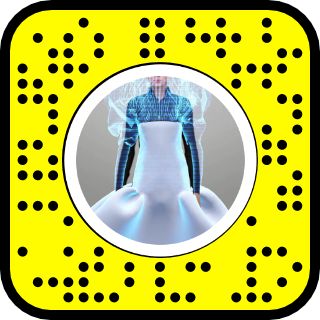
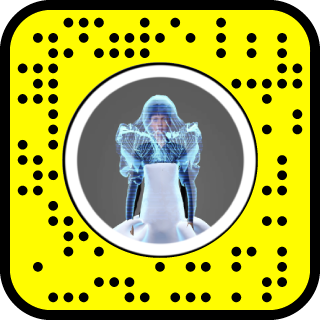
Update portfolio popup close button and latest site changes

diff --git a/index.html b/index.html
@@ -317,8 +317,6 @@
                                     </div>
                                 </div>
                             </div>
-                            <button class="project-nav project-prev" aria-label="Previous slide">&lt;</button>
-                            <button class="project-nav project-next" aria-label="Next slide">&gt;</button>
                         </div>
                         <button class="slide-click-surface" aria-label="Show project info"></button>
                         <button class="project-info">?</button>
@@ -330,66 +328,56 @@
                 </div>
                 <div class="portfolio-item" data-index="1" data-title="SpooktaculAR" data-description="What if the real horror of your Halloween costume wasn’t the oil-based plastics, the one-time wear, or the landfill afterlife?||If you also love dressing up, fear not. You can wear these terrifying AR costumes." data-category="digital-fashion" data-year="2023">
                     <div class="portfolio-image">
-                        <div class="project-slider">
-                            <div class="project-track">
-                                <div class="project-slide">
                                     <div class="mosaic-grid">
                                         <div class="mosaic-item">
                                             <iframe class="mosaic-vimeo" src="https://player.vimeo.com/video/1163044984?background=1&autoplay=1&loop=1&muted=1&autopause=0" title="Hologram Ghost" allow="autoplay; fullscreen; picture-in-picture" allowfullscreen></iframe>
-                                            <button class="mosaic-label" type="button" data-snapcode="images/portfolio-item-2-spooktaculAR/1.Snapcode_Ghost.png" data-snapcode-video="https://player.vimeo.com/video/1168898609?autoplay=1&muted=0&loop=1&autopause=0&playsinline=1&controls=0&title=0&byline=0&portrait=0&api=1&player_id=snapcode-video-player" aria-label="Show Hologram Ghost snapcode">👻 Hologram Ghost</button>
+                                            <button class="mosaic-label" type="button" data-snapcode="images/portfolio-item-2-spooktaculAR/1.Snapcode_Ghost.png" data-snapcode-video="https://player.vimeo.com/video/1168898609?autoplay=1&muted=1&loop=1&autopause=0&playsinline=1&controls=0&title=0&byline=0&portrait=0" data-snapcode-link="https://www.snapchat.com/lens/61f0f3b9f749400d91190cd2009f596d?sender_web_id=ddfc273e-e777-42e2-94e6-6960d54d06f7&device_type=desktop&is_copy_url=true" aria-label="Show Hologram Ghost snapcode">👻 Hologram Ghost</button>
                                         </div>
                                         <div class="mosaic-item">
                                             <iframe class="mosaic-vimeo" src="https://player.vimeo.com/video/1163045003?background=1&autoplay=1&loop=1&muted=1&autopause=0" title="Bloody Octopus" allow="autoplay; fullscreen; picture-in-picture" allowfullscreen></iframe>
-                                            <button class="mosaic-label" type="button" data-snapcode="images/portfolio-item-2-spooktaculAR/2.Snapcode_Octopus.png" aria-label="Show Bloody Octopus snapcode">🐙 Bloody Octopus</button>
+                                            <button class="mosaic-label" type="button" data-snapcode="images/portfolio-item-2-spooktaculAR/2.Snapcode_Octopus.png" data-snapcode-video="https://vimeo.com/1168898199?fl=tl&fe=ec" data-snapcode-link="https://www.snapchat.com/lens/d6dce749bb57452b94f3ca3994fd9166?sender_web_id=0937cddb-0b23-40b8-940f-b2a4a1a10cf3&device_type=desktop&is_copy_url=true" aria-label="Show Bloody Octopus snapcode">🐙 Bloody Octopus</button>
                                         </div>
                                         <div class="mosaic-item">
                                             <iframe class="mosaic-vimeo" src="https://player.vimeo.com/video/1163045019?background=1&autoplay=1&loop=1&muted=1&autopause=0" title="Creepy Clown" allow="autoplay; fullscreen; picture-in-picture" allowfullscreen></iframe>
-                                            <button class="mosaic-label" type="button" data-snapcode="images/portfolio-item-2-spooktaculAR/3.Snapcode_Clown.png" aria-label="Show Creepy Clown snapcode">🤡 Creepy Clown</button>
+                                            <button class="mosaic-label" type="button" data-snapcode="images/portfolio-item-2-spooktaculAR/3.Snapcode_Clown.png" data-snapcode-video="https://vimeo.com/1168898547?fl=tl&fe=ec" data-snapcode-link="https://www.snapchat.com/lens/6d1e62d8a54d4682af7eba7434c4b771?sender_web_id=e81c6d06-9c5a-48cb-8878-91d7fecf0ac7&device_type=desktop&is_copy_url=true" aria-label="Show Creepy Clown snapcode">🤡 Creepy Clown</button>
                                         </div>
                                         <div class="mosaic-item">
                                             <iframe class="mosaic-vimeo" src="https://player.vimeo.com/video/1163045041?background=1&autoplay=1&loop=1&muted=1&autopause=0" title="Wicked Witch" allow="autoplay; fullscreen; picture-in-picture" allowfullscreen></iframe>
-                                            <button class="mosaic-label" type="button" data-snapcode="images/portfolio-item-2-spooktaculAR/4.Snapcode_Witch.png" aria-label="Show Wicked Witch snapcode">🧙♀ Wicked Witch</button>
+                                            <button class="mosaic-label" type="button" data-snapcode="images/portfolio-item-2-spooktaculAR/4.Snapcode_Witch.png" data-snapcode-video="https://vimeo.com/1168898760?fl=tl&fe=ec" data-snapcode-link="https://www.snapchat.com/lens/09b98f4a344a4b01b72900109be1ff2e?sender_web_id=766f2926-ee55-441e-8c1b-f7c5cc7fd7c0&device_type=desktop&is_copy_url=true" aria-label="Show Wicked Witch snapcode">🧙♀ Wicked Witch</button>
                                         </div>
                                         <div class="mosaic-item">
                                             <iframe class="mosaic-vimeo" src="https://player.vimeo.com/video/1163045056?background=1&autoplay=1&loop=1&muted=1&autopause=0" title="Casual Wednesday" allow="autoplay; fullscreen; picture-in-picture" allowfullscreen></iframe>
-                                            <button class="mosaic-label" type="button" data-snapcode="images/portfolio-item-2-spooktaculAR/5.Snapcode_Wednesday.png" aria-label="Show Casual Wednesday snapcode">🤵🏻♀ Casual Wednesday</button>
+                                            <button class="mosaic-label" type="button" data-snapcode="images/portfolio-item-2-spooktaculAR/5.Snapcode_Wednesday.png" data-snapcode-video="https://vimeo.com/1168898266?fl=tl&fe=ec" data-snapcode-link="https://www.snapchat.com/lens/c5279c8f99f54f24bb12d35d58a69850?sender_web_id=357a39e5-242b-4340-b0a0-56c08f4ac55b&device_type=desktop&is_copy_url=true" aria-label="Show Casual Wednesday snapcode">🤵🏻♀ Casual Wednesday</button>
                                         </div>
                                         <div class="mosaic-item">
                                             <iframe class="mosaic-vimeo" src="https://player.vimeo.com/video/1163045068?background=1&autoplay=1&loop=1&muted=1&autopause=0" title="Evil Devil" allow="autoplay; fullscreen; picture-in-picture" allowfullscreen></iframe>
-                                            <button class="mosaic-label" type="button" data-snapcode="images/portfolio-item-2-spooktaculAR/6.Snapcode_Devil.png" aria-label="Show Evil Devil snapcode">😈 Evil Devil</button>
+                                            <button class="mosaic-label" type="button" data-snapcode="images/portfolio-item-2-spooktaculAR/6.Snapcode_Devil.png" data-snapcode-video="https://vimeo.com/1168915964?share=copy&fl=sv&fe=ci" data-snapcode-link="https://www.snapchat.com/lens/1722691415aa4596ad7b714f22383a21?sender_web_id=ad953afd-a5cd-4f28-9601-afb735f3585d&device_type=desktop&is_copy_url=true" aria-label="Show Evil Devil snapcode">😈 Evil Devil</button>
                                         </div>
                                         <div class="mosaic-item">
                                             <iframe class="mosaic-vimeo" src="https://player.vimeo.com/video/1163045087?background=1&autoplay=1&loop=1&muted=1&autopause=0" title="Galactic Alien" allow="autoplay; fullscreen; picture-in-picture" allowfullscreen></iframe>
-                                            <button class="mosaic-label" type="button" data-snapcode="images/portfolio-item-2-spooktaculAR/7.Snapcode_Alien.png" aria-label="Show Galactic Alien snapcode">👽 Galactic Alien</button>
+                                            <button class="mosaic-label" type="button" data-snapcode="images/portfolio-item-2-spooktaculAR/7.Snapcode_Alien.png" data-snapcode-video="https://vimeo.com/1168898413?fl=tl&fe=ec" data-snapcode-link="https://www.snapchat.com/lens/48113f790bee407786c97c14dfbd03ff?sender_web_id=6c7f4869-318e-49f6-a20a-ea68f0cce2a7&device_type=desktop&is_copy_url=true" aria-label="Show Galactic Alien snapcode">👽 Galactic Alien</button>
                                         </div>
                                         <div class="mosaic-item">
                                             <iframe class="mosaic-vimeo" src="https://player.vimeo.com/video/1163045100?background=1&autoplay=1&loop=1&muted=1&autopause=0" title="Rotten Pumpkin" allow="autoplay; fullscreen; picture-in-picture" allowfullscreen></iframe>
-                                            <button class="mosaic-label" type="button" data-snapcode="images/portfolio-item-2-spooktaculAR/8.Snapcode_Pumpkin.png" aria-label="Show Rotten Pumpkin snapcode">🎃 Rotten Pumpkin</button>
+                                            <button class="mosaic-label" type="button" data-snapcode="images/portfolio-item-2-spooktaculAR/8.Snapcode_Pumpkin.png" data-snapcode-video="https://vimeo.com/1168898681?fl=tl&fe=ec" data-snapcode-link="https://www.snapchat.com/lens/d90cd80e3acb4abaa13b3610e4732029?sender_web_id=1b5a4090-0f07-4563-902d-97e94bf311db&device_type=desktop&is_copy_url=true" aria-label="Show Rotten Pumpkin snapcode">🎃 Rotten Pumpkin</button>
                                         </div>
                                         <div class="mosaic-item">
                                             <iframe class="mosaic-vimeo" src="https://player.vimeo.com/video/1163045108?background=1&autoplay=1&loop=1&muted=1&autopause=0" title="Skinny Skeleton" allow="autoplay; fullscreen; picture-in-picture" allowfullscreen></iframe>
-                                            <button class="mosaic-label" type="button" data-snapcode="images/portfolio-item-2-spooktaculAR/9.Snapcode_Skeleton.png" aria-label="Show Skinny Skeleton snapcode">💀 Skinny Skeleton</button>
+                                            <button class="mosaic-label" type="button" data-snapcode="images/portfolio-item-2-spooktaculAR/9.Snapcode_Skeleton.png" data-snapcode-video="https://vimeo.com/1168916714?share=copy&fl=sv&fe=ci" data-snapcode-link="https://www.snapchat.com/lens/16711b551c484e9dabb9f397500dfa31?sender_web_id=af0825df-1b9e-4ed4-8205-51594ec5e860&device_type=desktop&is_copy_url=true" aria-label="Show Skinny Skeleton snapcode">💀 Skinny Skeleton</button>
                                         </div>
                                         <div class="mosaic-item">
                                             <iframe class="mosaic-vimeo" src="https://player.vimeo.com/video/1163045136?background=1&autoplay=1&loop=1&muted=1&autopause=0" title="Sloppy Zombie" allow="autoplay; fullscreen; picture-in-picture" allowfullscreen></iframe>
-                                            <button class="mosaic-label" type="button" data-snapcode="images/portfolio-item-2-spooktaculAR/10.Snapcode_Zombie.png" aria-label="Show Sloppy Zombie snapcode">🧟 Sloppy Zombie</button>
+                                            <button class="mosaic-label" type="button" data-snapcode="images/portfolio-item-2-spooktaculAR/10.Snapcode_Zombie.png" data-snapcode-video="https://vimeo.com/1168916999?share=copy&fl=sv&fe=ci" data-snapcode-link="https://www.snapchat.com/lens/02e6dcceb2a943f29b971f0154d2f716?sender_web_id=744e5ba6-75da-4106-a609-a72dabcf26c9&device_type=desktop&is_copy_url=true" aria-label="Show Sloppy Zombie snapcode">🧟 Sloppy Zombie</button>
                                         </div>
                                         <div class="mosaic-item">
                                             <iframe class="mosaic-vimeo" src="https://player.vimeo.com/video/1163045151?background=1&autoplay=1&loop=1&muted=1&autopause=0" title="Sunny Mummy" allow="autoplay; fullscreen; picture-in-picture" allowfullscreen></iframe>
-                                            <button class="mosaic-label" type="button" data-snapcode="images/portfolio-item-2-spooktaculAR/11.Snapcode_Mummy.png" aria-label="Show Sunny Mummy snapcode">👳 Sunny Mummy</button>
+                                            <button class="mosaic-label" type="button" data-snapcode="images/portfolio-item-2-spooktaculAR/11.Snapcode_Mummy.png" data-snapcode-video="https://vimeo.com/1168917308?share=copy&fl=sv&fe=ci" data-snapcode-link="https://www.snapchat.com/lens/b5bf36ae3e8a41bd868d466e42cd435e?sender_web_id=072f2beb-c5f4-4105-883c-32590528577f&device_type=desktop&is_copy_url=true" aria-label="Show Sunny Mummy snapcode">👳 Sunny Mummy</button>
                                         </div>
                                         <div class="mosaic-item">
                                             <iframe class="mosaic-vimeo" src="https://player.vimeo.com/video/1163045166?background=1&autoplay=1&loop=1&muted=1&autopause=0" title="Vintage Vampire" allow="autoplay; fullscreen; picture-in-picture" allowfullscreen></iframe>
-                                            <button class="mosaic-label" type="button" data-snapcode="images/portfolio-item-2-spooktaculAR/12.Snapcode_Vampire.png" aria-label="Show Vintage Vampire snapcode">🧛♀ Vintage Vampire</button>
+                                            <button class="mosaic-label" type="button" data-snapcode="images/portfolio-item-2-spooktaculAR/12.Snapcode_Vampire.png" data-snapcode-video="https://vimeo.com/1168917373?share=copy&fl=sv&fe=ci" data-snapcode-link="https://www.snapchat.com/lens/379cf40b95564a519fc1661128cabb4c?sender_web_id=299cf555-4afd-405d-b84c-e1abc3304fde&device_type=desktop&is_copy_url=true" aria-label="Show Vintage Vampire snapcode">🧛♀ Vintage Vampire</button>
                                         </div>
                                     </div>
-                                </div>
-                                <div class="project-slide"><img src="https://via.placeholder.com/1600x900?text=Circular+Fashion+02" alt="Circular Narratives slide 2"></div>
-                                <div class="project-slide"><img src="https://via.placeholder.com/1600x900?text=Circular+Fashion+03" alt="Circular Narratives slide 3"></div>
-                            </div>
-                            <button class="project-nav project-prev" aria-label="Previous slide">&lt;</button>
-                            <button class="project-nav project-next" aria-label="Next slide">&gt;</button>
-                        </div>
                         <button class="slide-click-surface" aria-label="Show project info"></button>
                         <button class="project-info">?</button>
                     </div>
@@ -676,12 +664,11 @@
         <div class="snapcode-popup-panel" role="dialog" aria-modal="true" aria-label="Snapcode image">
             <button class="close-popup snapcode-close" id="closeSnapcodePopup" aria-label="Close snapcode">×</button>
             <div class="snapcode-popup-content">
-                <img id="snapcodeImage" src="" alt="Snapcode" loading="lazy">
+                <a id="snapcodeImageLink" href="#" target="_blank" rel="noopener noreferrer" aria-label="Open snapcode link">
+                    <img id="snapcodeImage" src="" alt="Snapcode" loading="lazy">
+                </a>
                 <div class="snapcode-video-wrap" id="snapcodeVideoWrap">
                     <iframe id="snapcodeVideo" src="" title="Snapcode video" allow="autoplay; fullscreen; picture-in-picture" allowfullscreen></iframe>
-                    <button class="snapcode-video-mute" id="snapcodeVideoMute" type="button" data-muted="0" aria-label="Sound on">
-                        <i class="fa-solid fa-volume-high" aria-hidden="true"></i>
-                    </button>
                 </div>
             </div>
         </div>

diff --git a/script.js b/script.js
@@ -15,9 +15,9 @@ document.addEventListener('DOMContentLoaded', () => {
     const snapcodePopupBackdrop = document.getElementById('snapcodePopupBackdrop');
     const closeSnapcodePopup = document.getElementById('closeSnapcodePopup');
     const snapcodeImage = document.getElementById('snapcodeImage');
+    const snapcodeImageLink = document.getElementById('snapcodeImageLink');
     const snapcodeVideoWrap = document.getElementById('snapcodeVideoWrap');
     const snapcodeVideo = document.getElementById('snapcodeVideo');
-    const snapcodeVideoMute = document.getElementById('snapcodeVideoMute');
 
 
     // Scroll behavior for navbar
@@ -121,34 +121,49 @@ document.addEventListener('DOMContentLoaded', () => {
     }
 
     if (snapcodePopup && snapcodeImage) {
-        const openSnapcodePopup = (src, label, videoSrc) => {
+        const normalizeSnapcodeVideoUrl = (rawUrl) => {
+            const value = String(rawUrl || '').trim();
+            if (!value) return '';
+
+            const match = value.match(/(?:player\.vimeo\.com\/video\/|vimeo\.com\/(?:video\/)?)(\d+)/i);
+            if (match && match[1]) {
+                const videoId = match[1];
+                const params = new URLSearchParams({
+                    autoplay: '1',
+                    muted: '1',
+                    loop: '1',
+                    autopause: '0',
+                    playsinline: '1',
+                    controls: '0',
+                    title: '0',
+                    byline: '0',
+                    portrait: '0'
+                });
+
+                return `https://player.vimeo.com/video/${videoId}?${params.toString()}`;
+            }
+
+            const instagramMatch = value.match(/instagram\.com\/reel\/([^/?#]+)/i);
+            if (instagramMatch && instagramMatch[1]) {
+                return `https://www.instagram.com/reel/${instagramMatch[1]}/embed`;
+            }
+
+            return value;
+        };
+
+        const openSnapcodePopup = (src, label, videoSrc, imageLink) => {
             snapcodeImage.src = src;
             snapcodeImage.alt = label ? `${label} snapcode` : 'Snapcode';
-            const hasVideo = Boolean(videoSrc && snapcodeVideo && snapcodeVideoWrap);
+            if (snapcodeImageLink) {
+                snapcodeImageLink.href = imageLink || '#';
+                snapcodeImageLink.style.pointerEvents = imageLink ? 'auto' : 'none';
+            }
+            const resolvedVideoSrc = normalizeSnapcodeVideoUrl(videoSrc);
+            const hasVideo = Boolean(resolvedVideoSrc && snapcodeVideo && snapcodeVideoWrap);
             if (hasVideo) {
-                snapcodeVideo.src = videoSrc;
+                snapcodeVideo.src = resolvedVideoSrc;
                 snapcodeVideoWrap.classList.add('is-visible');
                 snapcodePopup.classList.add('has-video');
-                if (snapcodeVideoMute) {
-                    snapcodeVideoMute.dataset.muted = '0';
-                    snapcodeVideoMute.setAttribute('aria-label', 'Sound on');
-                    const icon = snapcodeVideoMute.querySelector('i');
-                    if (icon) {
-                        icon.classList.remove('fa-volume-xmark');
-                        icon.classList.add('fa-volume-high');
-                    }
-                }
-                const unmuteVideo = () => {
-                    postToVimeo(snapcodeVideo, 'setMuted', false);
-                    postToVimeo(snapcodeVideo, 'setVolume', 1);
-                    postToVimeo(snapcodeVideo, 'play');
-                    window.setTimeout(() => {
-                        postToVimeo(snapcodeVideo, 'setMuted', false);
-                        postToVimeo(snapcodeVideo, 'setVolume', 1);
-                    }, 220);
-                    snapcodeVideo.removeEventListener('load', unmuteVideo);
-                };
-                snapcodeVideo.addEventListener('load', unmuteVideo);
             } else if (snapcodeVideo && snapcodeVideoWrap) {
                 snapcodeVideo.src = '';
                 snapcodeVideoWrap.classList.remove('is-visible');
@@ -162,13 +177,14 @@ document.addEventListener('DOMContentLoaded', () => {
             snapcodePopup.classList.remove('is-open');
             snapcodePopup.setAttribute('aria-hidden', 'true');
             snapcodeImage.src = '';
+            if (snapcodeImageLink) {
+                snapcodeImageLink.href = '#';
+                snapcodeImageLink.style.pointerEvents = 'none';
+            }
             if (snapcodeVideo && snapcodeVideoWrap) {
                 snapcodeVideo.src = '';
                 snapcodeVideoWrap.classList.remove('is-visible');
                 snapcodePopup.classList.remove('has-video');
-                if (snapcodeVideoMute) {
-                    snapcodeVideoMute.dataset.muted = '0';
-                }
             }
         };
 
@@ -177,7 +193,7 @@ document.addEventListener('DOMContentLoaded', () => {
                 e.stopPropagation();
                 const src = btn.dataset.snapcode;
                 if (!src) return;
-                openSnapcodePopup(src, btn.textContent.trim(), btn.dataset.snapcodeVideo || '');
+                openSnapcodePopup(src, btn.textContent.trim(), btn.dataset.snapcodeVideo || '', btn.dataset.snapcodeLink || '');
             });
         });
 
@@ -190,34 +206,6 @@ document.addEventListener('DOMContentLoaded', () => {
             }
         });
 
-        if (snapcodeVideoMute && snapcodeVideo) {
-            snapcodeVideoMute.addEventListener('click', (e) => {
-                e.stopPropagation();
-                const icon = snapcodeVideoMute.querySelector('i');
-                const isMuted = snapcodeVideoMute.dataset.muted === '1';
-
-                if (isMuted) {
-                    postToVimeo(snapcodeVideo, 'setMuted', false);
-                    postToVimeo(snapcodeVideo, 'setVolume', 1);
-                    postToVimeo(snapcodeVideo, 'play');
-                    snapcodeVideoMute.dataset.muted = '0';
-                    snapcodeVideoMute.setAttribute('aria-label', 'Sound on');
-                    if (icon) {
-                        icon.classList.remove('fa-volume-xmark');
-                        icon.classList.add('fa-volume-high');
-                    }
-                } else {
-                    postToVimeo(snapcodeVideo, 'setMuted', true);
-                    postToVimeo(snapcodeVideo, 'setVolume', 0);
-                    snapcodeVideoMute.dataset.muted = '1';
-                    snapcodeVideoMute.setAttribute('aria-label', 'Sound off');
-                    if (icon) {
-                        icon.classList.remove('fa-volume-high');
-                        icon.classList.add('fa-volume-xmark');
-                    }
-                }
-            });
-        }
     }
 
     // Intersection observer for subtle entrance animations
@@ -445,6 +433,7 @@ document.addEventListener('DOMContentLoaded', () => {
         const message = { method };
         if (typeof value !== 'undefined') message.value = value;
         iframe.contentWindow.postMessage(message, '*');
+        iframe.contentWindow.postMessage(JSON.stringify(message), '*');
     };
 
     const iframeCoverSelector = 'iframe.vimeo-embed, iframe.hover-vimeo, iframe.mosaic-vimeo, iframe.split-vimeo';

diff --git a/styles.css b/styles.css
@@ -704,9 +704,15 @@ a {
     justify-self: center;
 }
 
-.snapcode-popup-wrap.has-video #snapcodeImage {
+.snapcode-popup-wrap.has-video #snapcodeImageLink {
     order: 2;
     justify-self: center;
+    display: inline-flex;
+    align-items: center;
+    justify-content: center;
+}
+
+.snapcode-popup-wrap.has-video #snapcodeImage {
     width: min(140px, calc(100vw - 140px));
     max-height: calc(100vh - 240px);
 }
@@ -751,9 +757,12 @@ a {
         justify-items: center;
     }
 
-    .snapcode-popup-wrap.has-video .snapcode-video-wrap,
-    .snapcode-popup-wrap.has-video #snapcodeImage {
-        order: initial;
+    .snapcode-popup-wrap.has-video .snapcode-video-wrap {
+        order: 1;
+    }
+
+    .snapcode-popup-wrap.has-video #snapcodeImageLink {
+        order: 2;
     }
 }
 
@@ -768,6 +777,8 @@ a {
     border-radius: 50%;
     font-size: 1rem;
     cursor: pointer;
+    z-index: 20;
+    pointer-events: auto;
 }
 
 .split-grid {
